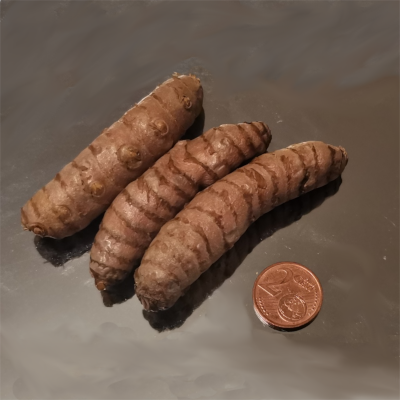
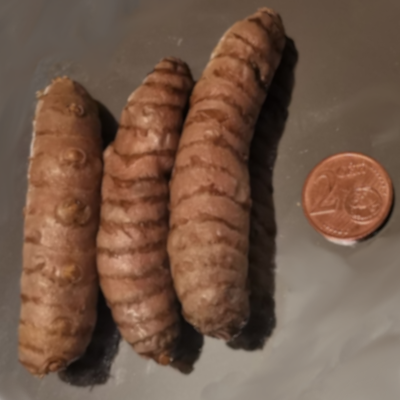
newest Update: 2022-02-23 23:34:16
Affected files:
Meine Gesundheitsnotitzen/.obsidian/workspace
Meine Gesundheitsnotitzen/Rezepte und Anleitungen/Ryans Gastbeiträge/Ryans Antiparasitaeres Salatdressing.md
Meine Gesundheitsnotitzen/Rezepte und Anleitungen/Ryans Gastbeiträge/__Attachments/Pasted image 20220223150506.png
Meine Gesundheitsnotitzen/Rezepte und Anleitungen/Ryans Gastbeiträge/__Attachments/Pasted image 20220223212419.png
Meine Gesundheitsnotitzen/Rezepte und Anleitungen/Ryans Gastbeiträge/__Attachments/Pasted image 20220223212746.png

diff --git a/Meine Gesundheitsnotitzen/Rezepte und Anleitungen/Ryans Gastbeiträge/Ryans Antiparasitaeres Salatdressing.md b/Meine Gesundheitsnotitzen/Rezepte und Anleitungen/Ryans Gastbeiträge/Ryans Antiparasitaeres Salatdressing.md
@@ -92,26 +92,18 @@ Vielen Dank an Ryan, welcher uns dieses Schmackhafte und Wertvolle Rezept aus se
 [Ryans Antiparasitaerer Salat](Ryans%20Antiparasitaerer%20Salat.md)
  
  ## Wissenswertes
-Das Dressing hält sich im Kühlschrank 3-5 Tage, sollte aber möglichst am selben Tag verbraucht werden, da Geschmack und gesundheitlicher Nutzen mit der Zeit nachlassen.
 
-![Vergleichsbild für alldiejenen ohne Waage -> ca. 30g Kurkuma](__Attachments/Pasted%20image%2020220223150506.png)
+| Wissenswertes                                                                                                                                                            |     |
+| ------------------------------------------------------------------------------------------------------------------------------------------------------------------------ | --- |
+| Das Dressing hält sich im Kühlschrank 3-5 Tage, sollte aber möglichst am selben Tag verbraucht werden, da Geschmack und gesundheitlicher Nutzen mit der Zeit nachlassen. |     |
+| Vergleichsbild für alldiejenen ohne Waage -> ca. 30g Kurkuma                                                                                                             | ![](__Attachments/Pasted%20image%2020220223150506.png)    |
 
 --------
-### Fußnoten
+
+## Fußnoten
+|                                                                                                                                                                                                         Fußnoten                                                                                                                                                                                                          |                                                                                   |
+|:-------------------------------------------------------------------------------------------------------------------------------------------------------------------------------------------------------------------------------------------------------------------------------------------------------------------------------------------------------------------------------------------------------------------------:| --------------------------------------------------------------------------------- |
 |                                                                                                            <sup>1</sup> Der Aceto Balsamico von "REWE Bio" hat sich nach dem probieren verschiedener preiswerter "Qualitäts Essige" für mich als der mit dem besten Preis-Leistungs Verhältnis herausgestellt                                                                                                             | ![Foto von REWE Bio Aceto Balsamico](__Attachments/Pasted%20image%2020220223212419.png) |
-|:-------------------------------------------------------------------------------------------------------------------------------------------------------------------------------------------------------------------------------------------------------------------------------------------------------------------------------------------------------------------------------------------------------------------------:| --------------------------------------------------------------------------------------- |
-| <sup>2</sup> Grundsätzlich rate ich von der Verwendung von Wein ab und würde immer auf Hochwertigen Essig zurückgreifen. In der Übergangsphase, wenn noch Restbestände vorhanden sind, kann man diese jedoch auf diese Weise sinnvoll verwenden</br></br>Guter Rotwein muss in Holzfässern gereift sein, je länger desto besser. </br>Hier 3 Beispiel Weine, die ich im Preis-Leistungs Verhältnis als gut befunden habe: | ![Foto von gutem Rotwein](__Attachments/Pasted%20image%2020220223213227.png)            |
-|                                                                                         <sup>3</sup>Das in Deutschland erwerbbare Olivenöl mit dem besten Preis-Leistungs Verhältnis ist -meines Erachtens nach das - das Latzimas, welches es jedoch nur bei Kaufland gibt.</br>Es stammt von Kreta und koster 3,99 € / Flasche                                                                                          | ![Foto von Latzimas Olivenöl ](__Attachments/Pasted%20image%2020220223212746.png)       |
-|                       <sup>4</sup> Wenn du im Zuge der Roh-Vegan-Keto Diät oder einer anderen Parasiten Kur immer wieder heißhunger Attacken auf "schädliche" Nahrung hast, empfehle ich, dem Dressing statt der passierten Tomaten odder Zusätzlich 1 - 3 Esslöffel Curry - Gewürzketschup der Marke HELA hinzu zu geben. Dies sollte allderings nach 7 - 10 Tagen auch wieder weggelassen werden                        |                                                                                         |
-
-
-
-
-
-
-
-
-
-
-
-
+| <sup>2</sup> Grundsätzlich rate ich von der Verwendung von Wein ab und würde immer auf Hochwertigen Essig zurückgreifen. In der Übergangsphase, wenn noch Restbestände vorhanden sind, kann man diese jedoch auf diese Weise sinnvoll verwenden</br></br>Guter Rotwein muss in Holzfässern gereift sein, je länger desto besser. </br>Hier 3 Beispiel Weine, die ich im Preis-Leistungs Verhältnis als gut befunden habe: | ![Foto von gutem Rotwein](__Attachments/Pasted%20image%2020220223213227.png)      |
+|                                                                                         <sup>3</sup> Das in Deutschland erwerbbare Olivenöl mit dem besten Preis-Leistungs Verhältnis ist -meines Erachtens nach das - das Latzimas, welches es jedoch nur bei Kaufland gibt.</br>Es stammt von Kreta und koster 3,99 € / Flasche                                                                                         | ![Foto von Latzimas Olivenöl ](__Attachments/Pasted%20image%2020220223212746.png) |
+|                       <sup>4</sup> Wenn du im Zuge der Roh-Vegan-Keto Diät oder einer anderen Parasiten Kur immer wieder heißhunger Attacken auf "schädliche" Nahrung hast, empfehle ich, dem Dressing statt der passierten Tomaten odder Zusätzlich 1 - 3 Esslöffel Curry - Gewürzketschup der Marke HELA hinzu zu geben. Dies sollte allderings nach 7 - 10 Tagen auch wieder weggelassen werden                        |                                                                                   |
